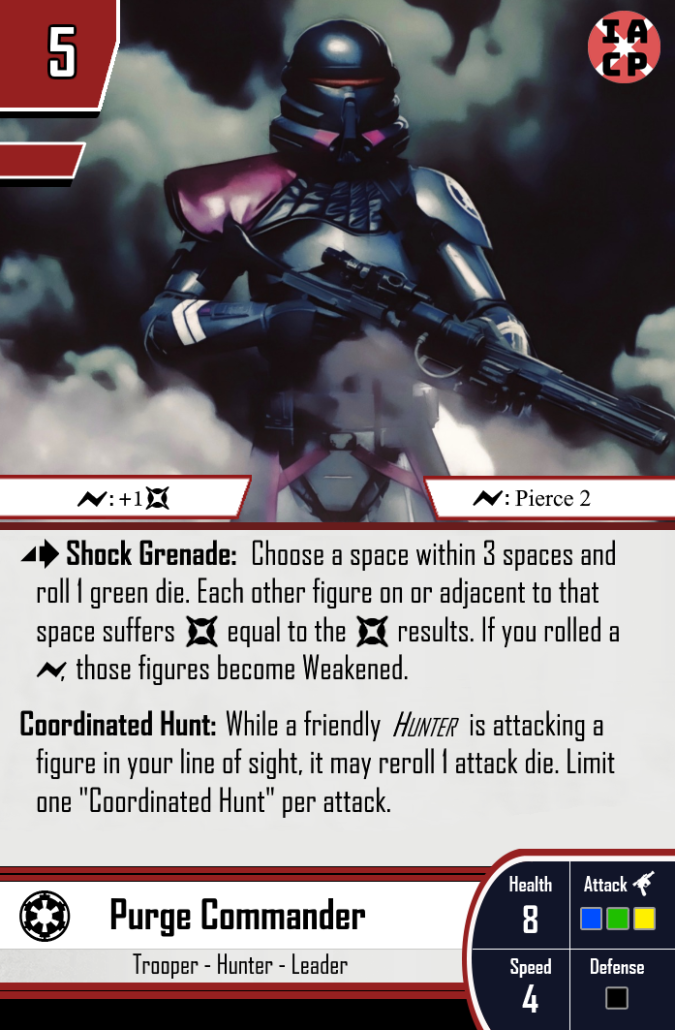
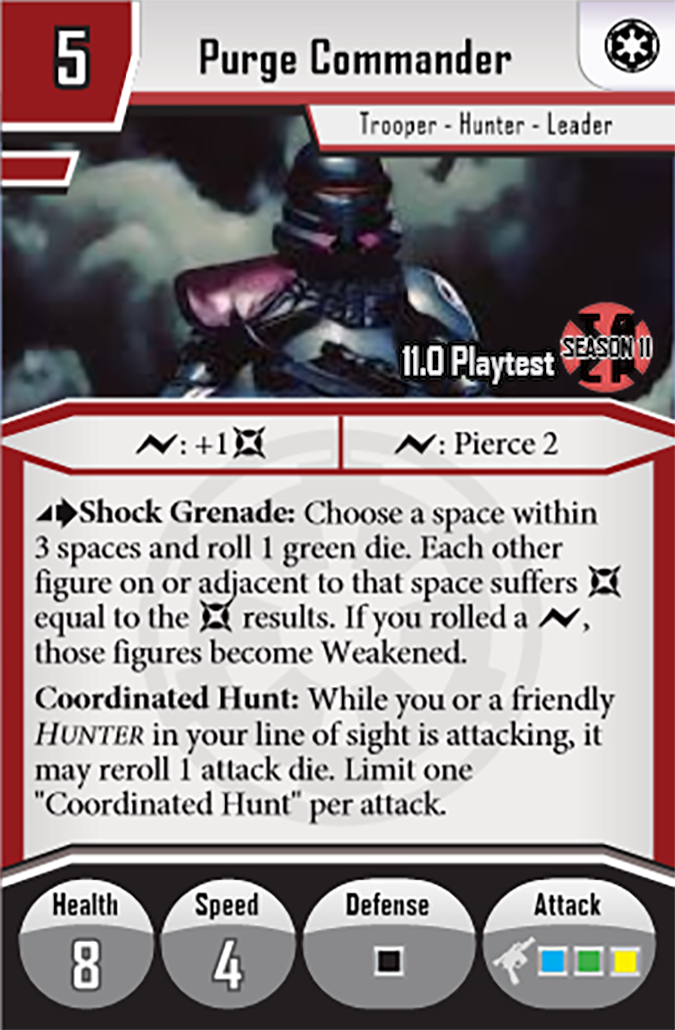
Share output improvements; card data and image updates
- Share: cost prefix, [E]/[R] and IACP suffixes, Traits on own line
- cards.json: remove Guardian from Fennec; remove Armorer & Ventress (and command cards)
- Update images: You Will Not Deny Me, Moff Gideon, Purge Commander [IACP]
- Remove Test [IACP] deployment image and thumbnail
- Changelog updated for unreleased changes

diff --git a/src/App.js b/src/App.js
@@ -821,17 +821,24 @@ function App() {
   };
 
   const handleShareList = async () => {
-    // Helper to format card details
-    const formatCard = (card) => {
-      let cardString = `- ${card.Name}`; 
-      return cardString;
+    // Helper to format deployment cards: cost prefix, name, [E]/[R], IACP suffix
+    const formatDeploymentCard = (card) => {
+      const classSuffix = card.CardClass === 'Elite' ? ' [E]' : card.CardClass === 'Regular' ? ' [R]' : '';
+      const variantSuffix = card.Variant === 'IACP' ? ' IACP' : '';
+      return `- ${card.Cost} ${card.Name}${classSuffix}${variantSuffix}`;
+    };
+
+    // Helper to format command cards: name + optional IACP suffix
+    const formatCommandCard = (card) => {
+      const variantSuffix = card.Variant === 'IACP' ? ' IACP' : '';
+      return `- ${card.Name}${variantSuffix}`;
     };
 
     // Deployment List details
-    const deploymentDetails = sortedDeploymentList.map(formatCard).join('\n');
+    const deploymentDetails = sortedDeploymentList.map(formatDeploymentCard).join('\n');
 
     // Command List details
-    const commandDetails = sortedCommandList.map(card => `- ${card.Name}`).join('\n');
+    const commandDetails = sortedCommandList.map(formatCommandCard).join('\n');
 
     // Stat details
     const statDetails = `Activations: ${stats.deploymentCount}
@@ -853,7 +860,8 @@ Command Cards:
 ${commandDetails || 'None'}
 
 Stats:
-${statDetails}Traits: ${traitDetails || 'None'}
+${statDetails}
+Traits: ${traitDetails || 'None'}
     `.trim();
 
     try {

diff --git a/CHANGELOG.md b/CHANGELOG.md
@@ -31,5 +31,14 @@ and this project adheres to [Semantic Versioning](https://semver.org/spec/v2.0.0
 
 ## [Unreleased]
 
+### Added
+- None
+
 ### Changed
-- Updated image for Rancor [Elite] [IACP] deployment card 
+- **Share:** Share output now includes cost prefix for deployment cards; [E]/[R] suffix for Elite/Regular; IACP suffix for IACP variant cards (deployment and command); Traits on its own line (no blank line above).
+- **cards.json:** Removed "Guardian" trait from Fennec. Removed The Armorer deployment card and its associated command card. Removed Ventress deployment card and its associated command card.
+- Updated images for: You Will Not Deny Me [IACP], Moff Gideon [IACP], Purge Commander [Elite] [IACP].
+- Updated image for Rancor [Elite] [IACP] deployment card.
+
+### Removed
+- The Armorer deployment card and command card; Ventress deployment card and command card; Test [IACP] deployment image and thumbnail.
